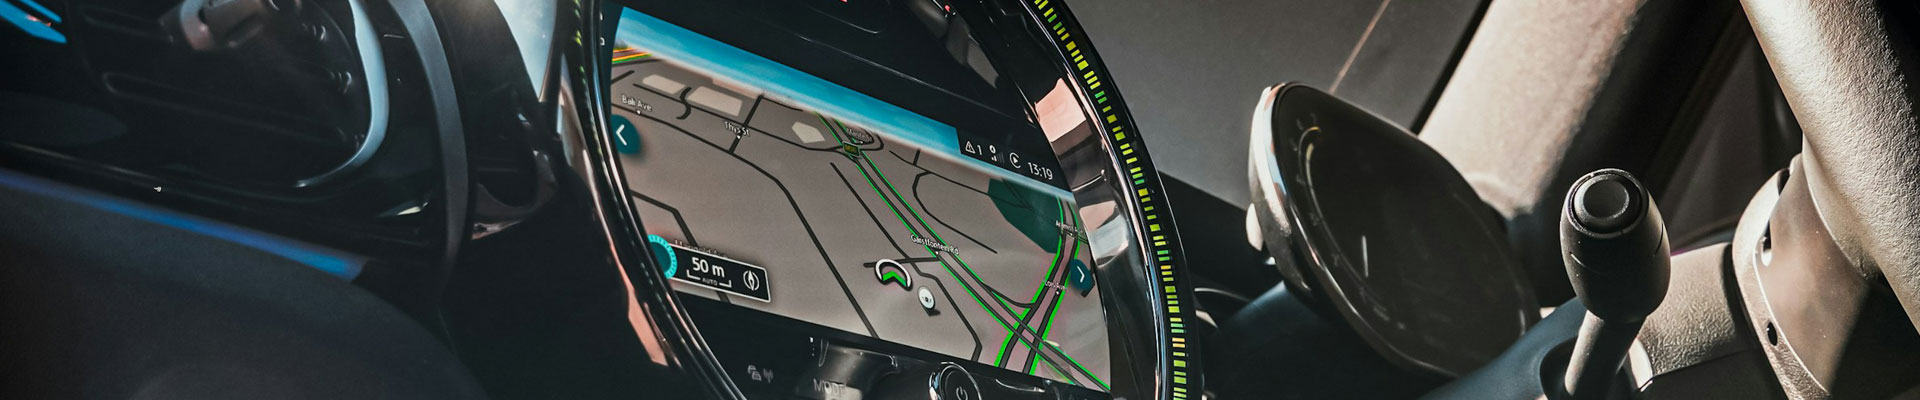
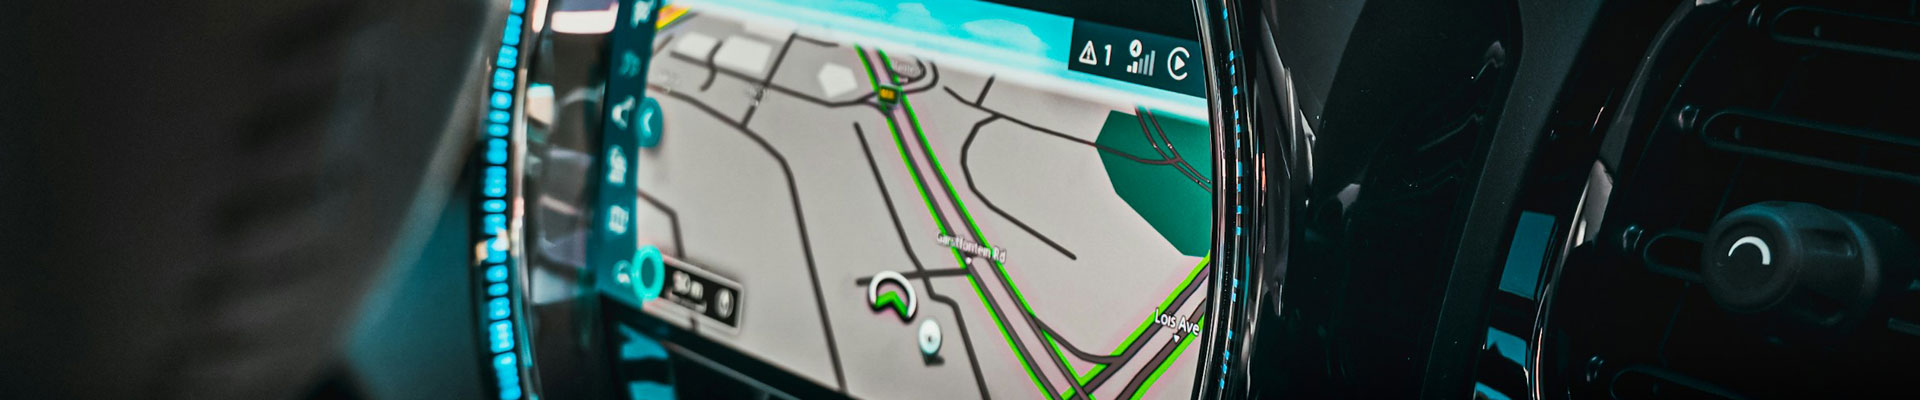
회원가입 페이지 제작

diff --git a/project02/src/components/sub/register/RegisterArea.jsx b/project02/src/components/sub/register/RegisterArea.jsx
@@ -1,0 +1,132 @@
+import './RegisterArea.css';
+import { useState, useCallback } from 'react';
+import { useNavigate } from 'react-router-dom';
+
+import axios from 'axios';
+import { debounce } from 'lodash';
+
+const initRegister={
+    regId:'',
+    regPw:'',
+    regPwChk:'',
+    regNickname:'',
+    regEmail:'',
+    regCar:''
+}
+
+const RegisterArea=()=>{
+    // 회원가입 폼 상태
+    const [inputRegister, setInputRegister]=useState(initRegister);
+    
+    // 입력값의 중복 여부 확인용 상태
+    const [exist, setExist]=useState({
+        existId:false,
+        existNickname:false,
+        existEmail:false
+    });
+
+    // 폼 입력 시 지나치게 많은 api 호출을 방지(debounce)
+    const debounceInputRegister=useCallback(debounce((input)=>{
+        // 회원가입 api 호출
+        axios.post('/api/auth/register', null, {params:{'registerValue':input}})
+        .then((res)=>{
+            setExist({
+                ...exist, 
+                existId:res.data.existId, 
+                existNickname:res.data.existNickname, 
+                existEmail:res.data.existEmail
+            });
+        }).catch();
+    }, 300),[]); // 함수 재생성 방지(useCallback)
+
+    const onChangeInput=(e)=>{
+        // debounce 함수 호출 시 최신 상태가 정확히 반영이 되지 않아 newInputRegister 생성
+        const newInputRegister={
+            ...inputRegister,
+            [e.target.name]:e.target.value
+        }
+        setInputRegister(newInputRegister);
+        debounceInputRegister(newInputRegister);
+    }
+
+    const nav=useNavigate();
+    const onClickRegister=()=>{
+        nav('/login', {replace:true});
+    }
+
+    const onClickInit=()=>{
+        setInputRegister(initRegister);
+    }
+
+    return (
+        <section className="RegisterArea">
+            <div className="inner_1000">
+                <div className='register_box'>
+                    <h2 className="fs_lg mb_sm">회원 가입</h2>
+                    <p className='fs_md mb_lg welcome'>
+                        &quot;미니와 함께하는 즐거운 여정에 오신 걸 환영합니다! <br />
+                        지금 바로 가입하고 미니 오너들과 특별한 순간을 나눠보세요!&quot;
+                    </p>
+                    <div className='box_inner NotoSansKR'>
+                        <h3 className='fs_md mb_md'>로그인 정보</h3>
+                        <ul className='login_input mb_lg'>
+                            <li>
+                                <label htmlFor="user_id">아이디</label>
+                                :
+                                <input id="user_id" name="regId" type="text" placeholder="사용할 ID를 입력하세요." required value={inputRegister.userId} onChange={onChangeInput} />
+                                <p className={`dup fs_xsm ${exist.existId}`}>중복된 아이디입니다.</p>
+                            </li>
+                            <li>
+                                <label htmlFor="user_pw">패스워드</label>
+                                :
+                                <input id="user_pw" name="regPw" type="password" placeholder="사용할 PW를 입력하세요." required value={inputRegister.userPw} onChange={onChangeInput} />
+                            </li>
+                            <li>
+                                <label htmlFor="pw_chk">PW 확인</label>
+                                :
+                                <input id="pw_chk" name="regPwChk" type="password" placeholder="PW를 다시 입력하세요." required value={inputRegister.userPwChk} onChange={onChangeInput} />
+                            </li>
+                        </ul>
+                        <h3 className='fs_md mb_md'>사용자 정보</h3>
+                        <ul className='login_input mb_xlg'>
+                            <li>
+                                <label htmlFor="user_nickname">닉네임</label>
+                                :
+                                <input id="user_nickname" name="regNickname" type="text" placeholder="사용할 닉네임을 입력하세요." required value={inputRegister.userNickname} onChange={onChangeInput} />
+                                <p className={`dup fs_xsm ${exist.existNickname}`}>중복된 닉네임입니다.</p>
+                            </li>
+                            <li>
+                                <label htmlFor="user_email">이메일</label>
+                                :
+                                <input id="user_email" name="regEmail" type="email" placeholder="example@naver.com" required value={inputRegister.userEmail} onChange={onChangeInput} />
+                                <p className={`dup fs_xsm ${exist.existEmail}`}>중복된 이메일입니다.</p>
+                            </li>
+                            <li>
+                                <label htmlFor="user_car">차량정보</label>
+                                :
+                                <select id="user_car" name="regCar" onChange={onChangeInput}>
+                                    <option>소유 차량 선택</option>
+                                    <option value="미니3도어">미니3도어</option>
+                                    <option value="미니5도어">미니5도어</option>
+                                    <option value="컨버터블">컨버터블</option>
+                                    <option value="클럽맨">클럽맨</option>
+                                    <option value="컨트리맨">컨트리맨</option>
+                                    <option value="미니쿠페">미니쿠페</option>
+                                    <option value="페이스맨">페이스맨</option>
+                                    <option value="로드스터">로드스터</option>
+                                    <option value="기타">기타</option>
+                                </select>
+                            </li>
+                        </ul>
+                        <div className='button_area'>
+                            <button type="button" onClick={onClickInit}>초기화</button>
+                            <button type="button" className='register' onClick={onClickRegister}>가입하기</button>
+                        </div>
+                    </div>
+                </div>
+            </div>
+        </section>
+    );
+}
+
+export default RegisterArea;

diff --git a/project02/server/routes/boardRouter.js b/project02/server/routes/boardRouter.js
@@ -32,7 +32,7 @@ router.post('/login', (req, res)=>{
             const userInfo=data[0];
 
             // jwt 토큰 생성
-            const token=jwt.sign({userId:userInfo.user_id, nickname:userInfo.nickname, email:userInfo.email, car:userInfo.car}, process.env.JWT_SECRET, {expiresIn:'1h'});
+            const token=jwt.sign({userId:userInfo.user_id, nickName:userInfo.nickname, eMail:userInfo.email, car:userInfo.car}, process.env.JWT_SECRET, {expiresIn:'1h'});
             // httpOnly 쿠키에 저장 후 클라이언트에 토큰 전달
             res.cookie('token', token, {httpOnly:true, secure:true, sameSite:'Strict'});
             res.send(token);
@@ -60,58 +60,6 @@ const verifyToken=(req, res, next)=>{
 router.get('/verify', verifyToken, (req, res)=>{
     // 클라이언트에게 요청했던 데이터 중 유저의 정보를 다시 전달
     res.send(req.user);
-});
-
-router.post('/register', (req, res)=>{
-    const {regId, regNickname, regEmail}=req.query.registerValue;
-
-    // db.query를 여러번 사용할 경우 각 DB 쿼리가 완료될 때 마다 응답을 보냄
-    // Express 서버는 한 요청 당 한 번의 응답만 보낼 수 있으므로 모든 쿼리가 완료된 다음 응답을 보내도록 Promise 사용
-    const regIdChk=()=>{
-        return new Promise((resolve, reject)=>{
-            const sqlId='select user_id from users where user_id=?';
-            db.query(sqlId, [regId], (err, data)=>{
-                if(err)
-                    reject(err);
-                else
-                    resolve(!!data.length); // 0, 1을 bool 타입으로 변환, 중복이 있으면 true
-            });
-        });
-    }
-
-    const regNicknameChk=()=>{
-        return new Promise((resolve, reject)=>{
-            const sqlNickname='select nickname from users where nickname=?';
-            db.query(sqlNickname, [regNickname], (err, data)=>{
-                if(err)
-                    reject(err);
-                else
-                    resolve(!!data.length);
-            });
-        });
-    }
-
-    const regEmailChk=()=>{
-        return new Promise((resolve, reject)=>{
-            const sqlEmail='select email from users where email=?';
-            db.query(sqlEmail, [regEmail], (err, data)=>{
-                if(err)
-                    reject(err);
-                else
-                    resolve(!!data.length);
-            });
-        });
-    }
-
-    //각 함수의 리턴 값을 담은 배열을 클라이언트에 전달
-    Promise.all([regIdChk(), regNicknameChk(), regEmailChk()])
-    .then(([boolId, boolNickname, boolEmail])=>{
-        res.send({
-            existId:boolId,
-            existNickname:boolNickname,
-            existEmail:boolEmail
-        });
-    }).catch();
 });
 
 export default router;

diff --git a/project02/server/routes/userRouter.js b/project02/server/routes/userRouter.js
@@ -32,7 +32,7 @@ router.post('/login', (req, res)=>{
             const userInfo=data[0];
 
             // jwt 토큰 생성
-            const token=jwt.sign({userId:userInfo.user_id, nickname:userInfo.nickname, email:userInfo.email, car:userInfo.car}, process.env.JWT_SECRET, {expiresIn:'1h'});
+            const token=jwt.sign({userId:userInfo.user_id, nickName:userInfo.nickname, eMail:userInfo.email, car:userInfo.car}, process.env.JWT_SECRET, {expiresIn:'1h'});
             // httpOnly 쿠키에 저장 후 클라이언트에 토큰 전달
             res.cookie('token', token, {httpOnly:true, secure:true, sameSite:'Strict'});
             res.send(token);
@@ -60,58 +60,6 @@ const verifyToken=(req, res, next)=>{
 router.get('/verify', verifyToken, (req, res)=>{
     // 클라이언트에게 요청했던 데이터 중 유저의 정보를 다시 전달
     res.send(req.user);
-});
-
-router.post('/register', (req, res)=>{
-    const {regId, regNickname, regEmail}=req.query.registerValue;
-
-    // db.query를 여러번 사용할 경우 각 DB 쿼리가 완료될 때 마다 응답을 보냄
-    // Express 서버는 한 요청 당 한 번의 응답만 보낼 수 있으므로 모든 쿼리가 완료된 다음 응답을 보내도록 Promise 사용
-    const regIdChk=()=>{
-        return new Promise((resolve, reject)=>{
-            const sqlId='select user_id from users where user_id=?';
-            db.query(sqlId, [regId], (err, data)=>{
-                if(err)
-                    reject(err);
-                else
-                    resolve(!!data.length); // 0, 1을 bool 타입으로 변환, 중복이 있으면 true
-            });
-        });
-    }
-
-    const regNicknameChk=()=>{
-        return new Promise((resolve, reject)=>{
-            const sqlNickname='select nickname from users where nickname=?';
-            db.query(sqlNickname, [regNickname], (err, data)=>{
-                if(err)
-                    reject(err);
-                else
-                    resolve(!!data.length);
-            });
-        });
-    }
-
-    const regEmailChk=()=>{
-        return new Promise((resolve, reject)=>{
-            const sqlEmail='select email from users where email=?';
-            db.query(sqlEmail, [regEmail], (err, data)=>{
-                if(err)
-                    reject(err);
-                else
-                    resolve(!!data.length);
-            });
-        });
-    }
-
-    //각 함수의 리턴 값을 담은 배열을 클라이언트에 전달
-    Promise.all([regIdChk(), regNicknameChk(), regEmailChk()])
-    .then(([boolId, boolNickname, boolEmail])=>{
-        res.send({
-            existId:boolId,
-            existNickname:boolNickname,
-            existEmail:boolEmail
-        });
-    }).catch();
 });
 
 export default router;

diff --git a/project02/src/components/sub/login/LoginArea.jsx b/project02/src/components/sub/login/LoginArea.jsx
@@ -1,6 +1,6 @@
 import './LoginArea.css';
 import { useState, useContext } from 'react';
-import { useNavigate } from 'react-router-dom';
+import { useNavigate, Link } from 'react-router-dom';
 
 import { LoginUserInfoContext } from '../../../App';
 
@@ -22,7 +22,7 @@ const LoginArea=()=>{
     const onClickLogin=()=>{
         // login api 요청
         // axios는 post 요청 시 data를 쿼리로 반환하지 않기 때문에 두 번째 인자에 null값을 주고 세 번째 인자에 필요한 매개변수를 씀
-        axios.post('/api/login', null, {params:{'userId':inputId, 'userPw':inputPw}})
+        axios.post('/api/auth/login', null, {params:{'userId':inputId, 'userPw':inputPw}})
         .then(res=>{
             let fail=res.data.Fail; // server로부터 Fail 값을 받아와 저장
             if(fail){
@@ -35,11 +35,11 @@ const LoginArea=()=>{
             }
             else{
                 // 로그인 성공 시 권한 api를 거쳐 로그인 유저 상태를 업데이트함
-                axios.get('/api/auth',{withCredentials:true}).then((res)=>{
+                axios.get('/api/auth/verify',{withCredentials:true}).then((res)=>{
                     setLoginUserInfo({
                         userId:res.data.userId,
-                        nickName:res.data.nickName,
-                        eMail:res.data.eMail,
+                        nickName:res.data.nickname,
+                        eMail:res.data.email,
                         car:res.data.car,
                         isLogin:true
                     })
@@ -58,7 +58,7 @@ const LoginArea=()=>{
                     <input type="password" placeholder='PW' value={inputPw} onChange={onChangePw}/>
                     <button type="button" className='fs_md mb_sm' onClick={onClickLogin}>로그인</button>
                     <ul className='service'>
-                        <li><b>회원가입</b></li>
+                        <li><b><Link to='/register'>회원가입</Link></b></li>
                         <li>아이디 찾기</li>
                         <li>비밀번호 찾기</li>
                     </ul>

diff --git a/project02/src/components/sub/register/RegisterArea.css b/project02/src/components/sub/register/RegisterArea.css
@@ -1,0 +1,18 @@
+.RegisterArea{margin-top:100px; min-height:100vh; padding:var(--space-xlg) 0; background:url(../../../assets/sub/register_bg.jpg) no-repeat center center/cover;}
+
+.RegisterArea h2{text-align:center;}
+.RegisterArea .welcome{text-align:center; line-height:1.6;}
+
+.RegisterArea .register_box{position:relative; z-index:1; padding:var(--space-xlg) var(--space-sm); background:rgba(255,255,255,0.9); border-radius:5px;}
+.RegisterArea .register_box::after{content:""; position:absolute; left:0; top:0; z-index:-1; display:block; width:100%; height:100%; backdrop-filter: blur(5px);}
+.RegisterArea .register_box .box_inner{max-width:480px; margin:0 auto;}
+.RegisterArea .register_box ul li{position:relative; display:flex; justify-content:space-between; align-items:center; gap:var(--space-xsm); margin-bottom:var(--space-md);}
+.RegisterArea .register_box ul li:last-child{margin-bottom:0;}
+.RegisterArea .register_box ul li :not(label){flex-shrink:2; width:100%; height:32px; padding:0 var(--space-xsm); border:0; border-radius:5px;}
+.RegisterArea .register_box ul li label{width:68px; flex-shrink:0; text-align:justify;}
+.RegisterArea .register_box ul li .dup{position:absolute; left:0; top:calc(100% + 4px); padding-left:92px; color:red; visibility:hidden;}
+.RegisterArea .register_box ul li .dup.true{visibility:visible;}
+
+.RegisterArea .button_area{display:flex; gap:var(--space-sm); width:100%; height:48px;}
+.RegisterArea .button_area button{width:50%; font-size:var(--font-sm); border:0; border-radius:5px; background:#333; color:#fff; cursor:pointer;}
+.RegisterArea .button_area button.register{background:#004299;}

diff --git a/project02/src/App.jsx b/project02/src/App.jsx
@@ -10,6 +10,7 @@ import Brand from './pages/Brand';
 import Product from './pages/Product';
 import Login from './pages/Login';
 import MyPage from './pages/MyPage';
+import Register from './pages/Register';
 
 import { mockDataArray } from './util/mock-data';
 
@@ -71,6 +72,7 @@ function App() {
               <Route path="/product/:id" element={<Product />} />
               <Route path="/login" element={<Login />} />
               <Route path="/mypage/:userId" element={<MyPage />} />
+              <Route path="/register" element={<Register />} />
             </Routes>
           </LoginUserInfoContext.Provider>
         </MockDataDispatchContext.Provider>

diff --git a/project02/src/components/Header.jsx b/project02/src/components/Header.jsx
@@ -74,7 +74,7 @@ const Header=({isActive})=>{
                 </nav>
                 <ul className={`user fs_xsm NotoSansKR ${loginUserInfo.isLogin ? 'not_login' : 'login'}`}>
                     <li><Link to='/login'>로그인</Link></li>
-                    <li><Link to='/login'>회원가입</Link></li>
+                    <li><Link to='/register'>회원가입</Link></li>
                     <li><Link to={`/mypage/${loginUserInfo.userId}`}>내 정보</Link></li>
                     <li><Link to={'/login'} onClick={onClickLogout}>로그아웃</Link></li>
                 </ul>

diff --git a/project02/server/server.js b/project02/server/server.js
@@ -11,9 +11,9 @@ const app=express();
 import cookieParser from 'cookie-parser';
 app.use(cookieParser());
 
-// authRouter.js에서 api 처리
-import api from './routes/authRouter.js';
-app.use('/api', api);
+// /라우터 파일에서 api 처리
+import authRouter from './routes/authRouter.js';
+app.use('/api/auth', authRouter);
 
 const PORT=process.env.VITE_PORT || 4000;
 

diff --git a/project02/src/pages/Register.jsx b/project02/src/pages/Register.jsx
@@ -1,0 +1,15 @@
+import Header from '../components/Header';
+import RegisterArea from '../components/sub/register/RegisterArea';
+import Footer from '../components/Footer';
+
+const Register=()=>{
+    return (
+        <>
+            <Header isActive={true} />
+            <RegisterArea />
+            <Footer />
+        </>
+    );
+}
+
+export default Register;
